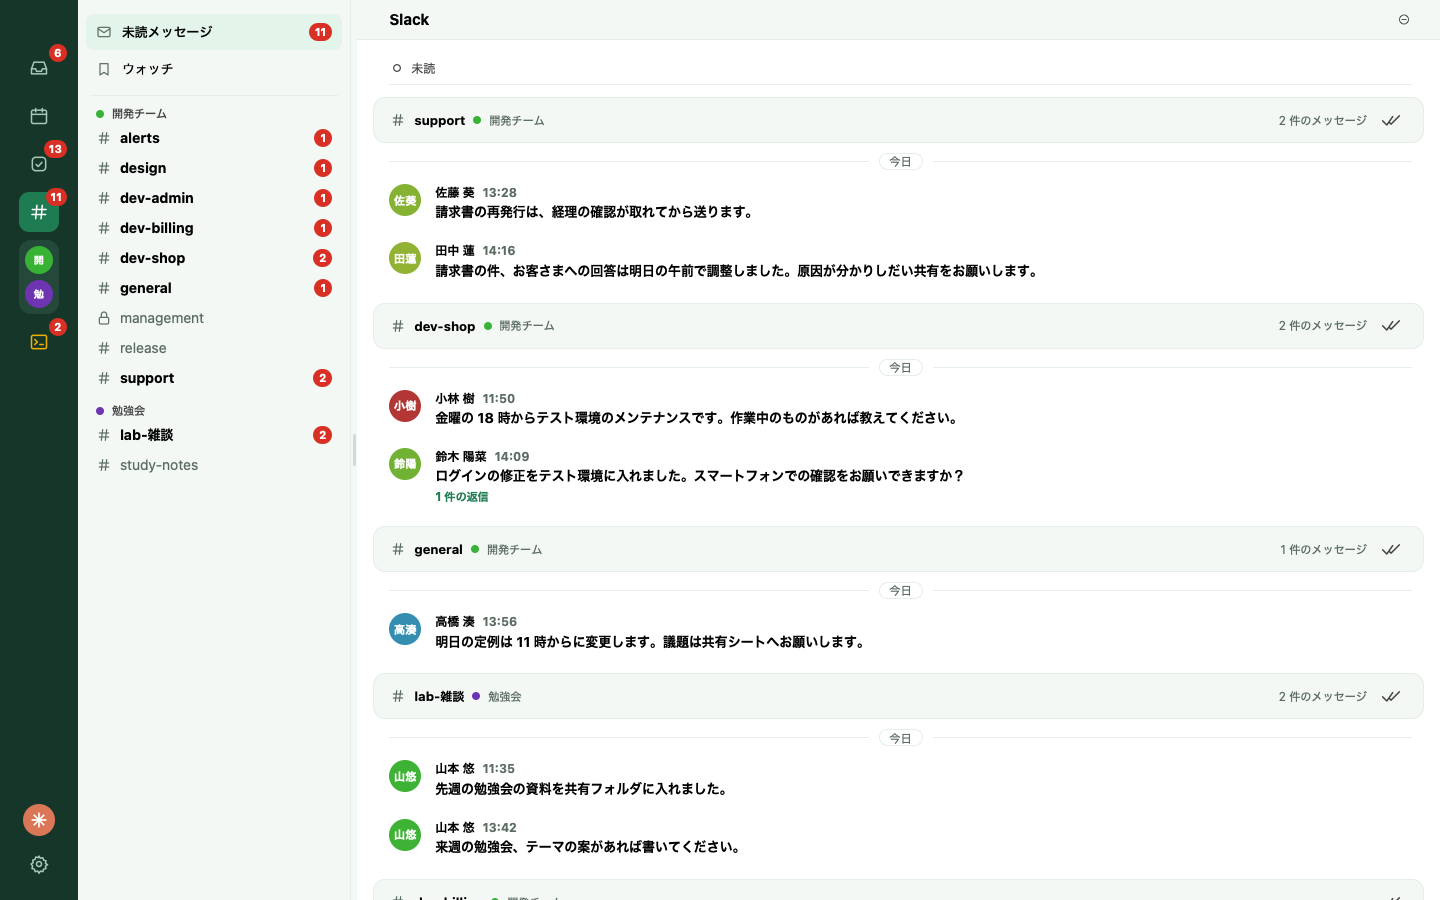
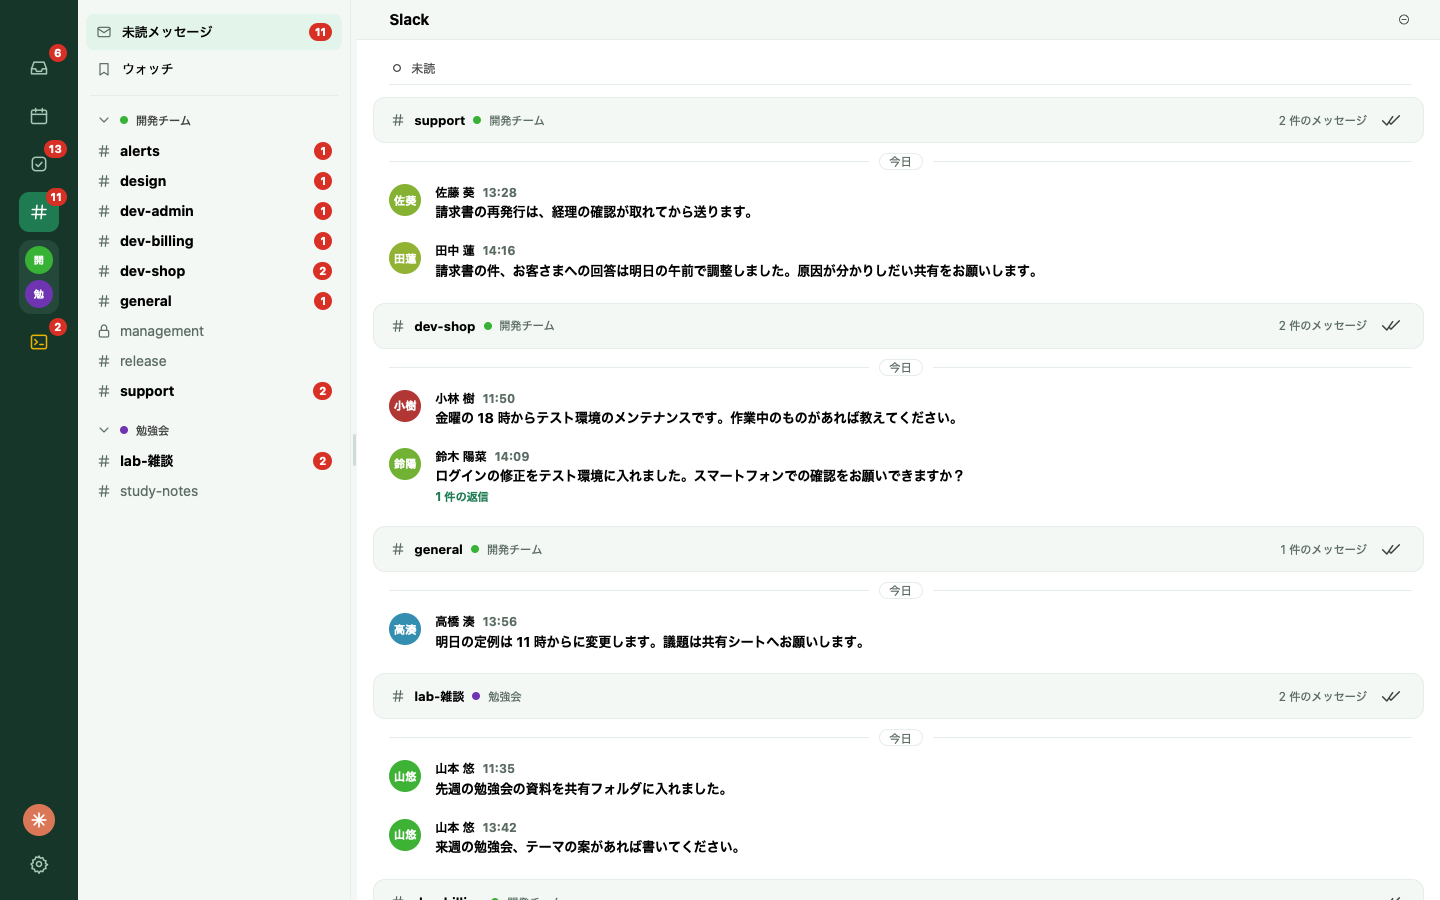
docs: v0.65.1 の CHANGELOG と機能の説明を書き、Slack の写真を撮り直す
This commit is v0.65.1.

diff --git a/docs/features.md b/docs/features.md
@@ -23,10 +23,10 @@ title: 機能
 - Todo 画面の右側は、トークンの入力欄と下書きのページのあいだを除いて、いつも開いていて、2 段になっている。1 段目は、左の見出しと同じ淡い色の帯で、右端に Claude と「Orca に渡す」の 2 つのアイコンだけがあり、押して切り替える（Orca に渡すのアイコンは、タスクを開いているあいだだけ押せる。タスクを離れると Claude に戻る）。2 段目は選んだ機能の見出しと操作で、その下が中身になる。2 つのペインは同時には出ず、右側の幅は仕切りで画面の 30% から 45% まで変えられる（最初はいちばん狭い画面の 30%）。左の見出しには、Todo そのものの操作（一覧のボタン、戻るボタン、見出し、「その他」）だけが残る。Claude のペインでは、「年末まで週 2 件ずつ」のように言葉で頼むと、Claude がタスクの案を、名前、日付、プロジェクトのカードで返す。カードの上で名前、日付、プロジェクトを直し、「追加」を押して初めて Todoist にタスクを作る。「却下」は何も作らずにカードを閉じる。続けて頼むと、今のカードの内容も Claude に渡る。頼みを書く欄の枠の中で、この相談のモデルと effort を切り替えられる（依頼、会話、今日の日付、Todoist のプロジェクトの名前を送る。Claude Code を使えるときだけ）
 - メールを Slack に貼る（詳細画面の「Slack に貼る」で専用の画面が開き、スレッドの最新のメッセージの件名・差出人・日時・本文が編集欄に入る。編集欄の文章を直して、貼るときに選んだチャンネルかスレッドに投稿する。「元の内容に戻す」で最初の文に戻せる。宛先は、最近使った先、参加しているチャンネルの検索、Slack のリンクから選ぶ。複数のワークスペースを持て、トークンはサイドメニューの設定で追加する）
 - サイドメニューは、開いている画面に合わせて、その機能のアカウントを、アイコンの下に並べる（メールとカレンダーでは Google のアカウントをカレンダーのアイコンの下に、Slack ではワークスペースを Slack のアイコンの下に出す。Todo と設定では出さない。ワークスペースの絵は、そのワークスペースでの自分のアイコン）
-- サイドメニューの Slack のアイコンで Slack の画面を開く。画面の左のサイドメニューに、「未読メッセージ」（未読の件数つき）と「ウォッチ」の 2 つのボタンと、ワークスペースごとのチャンネル（参加しているパブリックとプライベート。名前順で、未読の件数つき。DM とグループ DM は出さない）が並び、境目をドラッグして幅を変えられる。ボタンで、全ワークスペース分のメッセージの「未読」と「ウォッチ」の一覧を 1 つずつ切り替える（送信者のアイコンと名前、本文（ふつうの投稿は 2 行まで、ボットの投稿は項目ごとに書式つきで）、返信の件数を出す。新着は自動で読み直す。設定の「Slack」タブの「リアルタイム更新」でワークスペースごとに App-Level Token を登録すると、Socket Mode でつなぎ、投稿・返信・変更・削除を約 1 秒で一覧と未読の件数に出す）。「未読」は、チャンネルごとにまとめ、チャンネルごとに新しい 10 件までを、古い順に日付の区切りの下に、名前の横に時刻をつけて出す（全体の上限はない）。「ウォッチ」は新しい順で、行に日時を出す。未読のメッセージは、既読になると一覧から消える。一覧の上のヘッダーには「Slack」の見出しと、「一覧に出さないチャンネル」を開く設定のアイコンだけが付く。未読の件数は Slack のアイコンにも出す（20 件を超えると `20+`。0 件のときは消える）。サイドメニューのチャンネルにマウスを乗せると出る丸にマイナスのアイコンで、そのチャンネルを一覧に出さないようにでき、設定の「Slack」タブで戻せる。しおりで、そのスレッドをウォッチでき、ウォッチしたスレッドは外すまで「ウォッチ」に残り、新しい返信があると「新しい返信 N 件」を出す
+- サイドメニューの Slack のアイコンで Slack の画面を開く。画面の左のサイドメニューに、「未読メッセージ」（未読の件数つき）と「ウォッチ」の 2 つのボタンと、ワークスペースごとのチャンネル（参加しているパブリックとプライベート。名前順で、未読の件数つき。DM とグループ DM は出さない）が並び、ワークスペースの名前を押すと、未読の無いチャンネルを隠して畳める（畳んだ状態はアプリを開き直しても残る）。境目をドラッグして幅を変えられる。ボタンで、全ワークスペース分のメッセージの「未読」と「ウォッチ」の一覧を 1 つずつ切り替える（送信者のアイコンと名前、本文（ふつうの投稿は 2 行まで、ボットの投稿は項目ごとに書式つきで）、返信の件数を出す。新着は自動で読み直す。設定の「Slack」タブの「リアルタイム更新」でワークスペースごとに App-Level Token を登録すると、Socket Mode でつなぎ、投稿・返信・変更・削除を約 1 秒で一覧と未読の件数に出す）。「未読」は、チャンネルごとにまとめ、チャンネルごとに新しい 10 件までを、古い順に日付の区切りの下に、名前の横に時刻をつけて出す（全体の上限はない）。「ウォッチ」は新しい順で、行に日時を出す。未読のメッセージは、既読になると一覧から消える。一覧の上のヘッダーには「Slack」の見出しと、「一覧に出さないチャンネル」を開く設定のアイコンだけが付く。未読の件数は Slack のアイコンにも出す（20 件を超えると `20+`。0 件のときは消える）。サイドメニューのチャンネルにマウスを乗せると出る丸にマイナスのアイコンで、そのチャンネルを一覧に出さないようにでき、設定の「Slack」タブで戻せる。しおりで、そのスレッドをウォッチでき、ウォッチしたスレッドは外すまで「ウォッチ」に残り、新しい返信があると「新しい返信 N 件」を出す
 - 「未読」のチャンネルの見出しの右端のアイコン「既読にする」で、そのチャンネルの既読位置を最新の未読のメッセージまで進める（一覧に出ていない分も含む。戻せない）。そのチャンネルのスレッドの未読の返信も既読になる。スレッドは開かない。1 件ずつ既読にするチェックと、一覧全体の「すべて既読にする」はない
 - 未読の返信があるスレッドは未読の段に出し、行の下の「未読の返信 N 件」で返信を開閉する（最初は開いている。ここで読んでも Slack 側のスレッドの未読は消えない）
-- サイドメニューのチャンネルを押すと、そのチャンネルの履歴を開く（最新の 50 件を、古い順に日付の区切りの下に出し、最新のメッセージの位置で開く。ヘッダーはチャンネルの名前とワークスペースの名前だけ。行は未読の行と同じで、返信のあるメッセージは「N 件の返信」でスレッドを開き、しおりでウォッチできる。リアクションは、本文の下に絵文字と数で並ぶ（表示だけ。カスタム絵文字は `:名前:` で出す）。スレッドへの返信をチャンネルにも投稿したメッセージには、本文の上に薄い色で「スレッドに返信済み: 」と元のメッセージの書き出しを出し、押すとそのスレッドを開く。開いても既読にはならず、既読にするのは「未読」の見出しの「既読にする」だけ。読めないときはエラーと「再読み込み」を出す）
+- サイドメニューのチャンネルを押すと、そのチャンネルの履歴を開く（最新の 50 件を、古い順に日付の区切りの下に出し、最新のメッセージの位置で開く。ヘッダーはチャンネルの名前とワークスペースの名前だけ。行は未読の行と同じで、返信のあるメッセージは「N 件の返信」でスレッドを開き、しおりでウォッチできる。リアクションは、本文の下に絵文字と数で並ぶ（表示だけ。カスタム絵文字は `:名前:` で出す）。スレッドへの返信をチャンネルにも投稿したメッセージには、本文の上に薄い色で「スレッドに返信済み: 」と元のメッセージの書き出しを出し、押すとそのスレッドを開く。チャンネルを押すと、「未読」の見出しの「既読にする」と同じく、そのチャンネルを既読にする。読めないときはエラーと「再読み込み」を出す）
 - チャンネルの履歴の下の欄から、そのチャンネルに投稿できる（Enter は改行、⌘Enter（Windows は Ctrl+Enter）か「投稿する」で、自分の名前で投稿する。空の文章は投稿できず、10,000 文字まで。投稿できたら欄を空にして履歴を読み直し、最新のメッセージを出す。失敗したときはエラーを出して文章を残す。書きかけの文章は、チャンネルごとにアプリを終了するまで残る）
 - Slack の一覧の読み込みで新しい未読のメッセージが見つかると、ウィンドウの右下にカードを出す（送信者のアイコンと名前、チャンネル、本文を 1 行で。既読にする・ウォッチ・スレッドを開くのボタン。スレッドを開くは他の画面からでもそのスレッドに移る。新着メールのカードと同じ積み重ねで、合わせて最大 3 枚。10 秒で消える（マウスやフォーカスが乗っている間は残る）。そのメッセージが未読でなくなると（一覧や Slack で既読にしたときも、チャンネルを一覧から外したときも、ウォッチしたときも）すぐに消える。起動後の最初の読み込みと、ウォッチしたスレッドでは出さず、OS の通知も使わない）
 - 一覧の行を押すと、そのスレッドの詳細が開く（メッセージを古い順に、送信者のアイコン、名前、時刻、本文で出す。本文の Slack の書式（`*太字*`、`_斜体_`、`~取り消し~`、`` `コード` ``、``` で囲んだコードブロック、`>` で始まる引用）は、その見た目で出す。添付の画像はサムネイルで、画像でないファイルは名前の札で出し、押すと Slack で開く。ボットやアプリの投稿のブロックと添付のカードも出す（URL 付きのボタンは既定のブラウザで開く。画像は「画像を表示」を押したときだけ取得する）。メッセージのリアクションは、本文の下に絵文字と数で並ぶ。「Slack で開く」と、「Todo にする」（Claude Code と Todoist が使えるときだけ。要約のカードは「[Slack のメッセージを要約して Todo にする](slack.md#slack-のメッセージを要約して-todo-にする)」と同じ）がある）

diff --git a/CHANGELOG.md b/CHANGELOG.md
@@ -3,6 +3,12 @@
 The newest version comes first.
 The project was named cookup until v0.14.6.
 
+## v0.65.1
+
+S-19: in the Slack side menu, pressing a workspace's name folds it (#523, #524). A folded workspace hides its channels with nothing unread, and keeps the unread ones and the one whose history is shown. Press it again to open it. The folded workspaces are kept in `slack-side.json` and stay folded after a restart.
+
+S-19, S-15: pressing a channel in the Slack side menu reads it, as 「既読にする」 of its heading in the unread list does, and opens its history (#525).
+
 ## v0.65.0
 
 S-22: a message in a channel's history and in a thread shows its reactions under it, each emoji with its count (#468, #469). A custom emoji shows as its `:name:`. It is display only; reactions cannot be added or removed.
